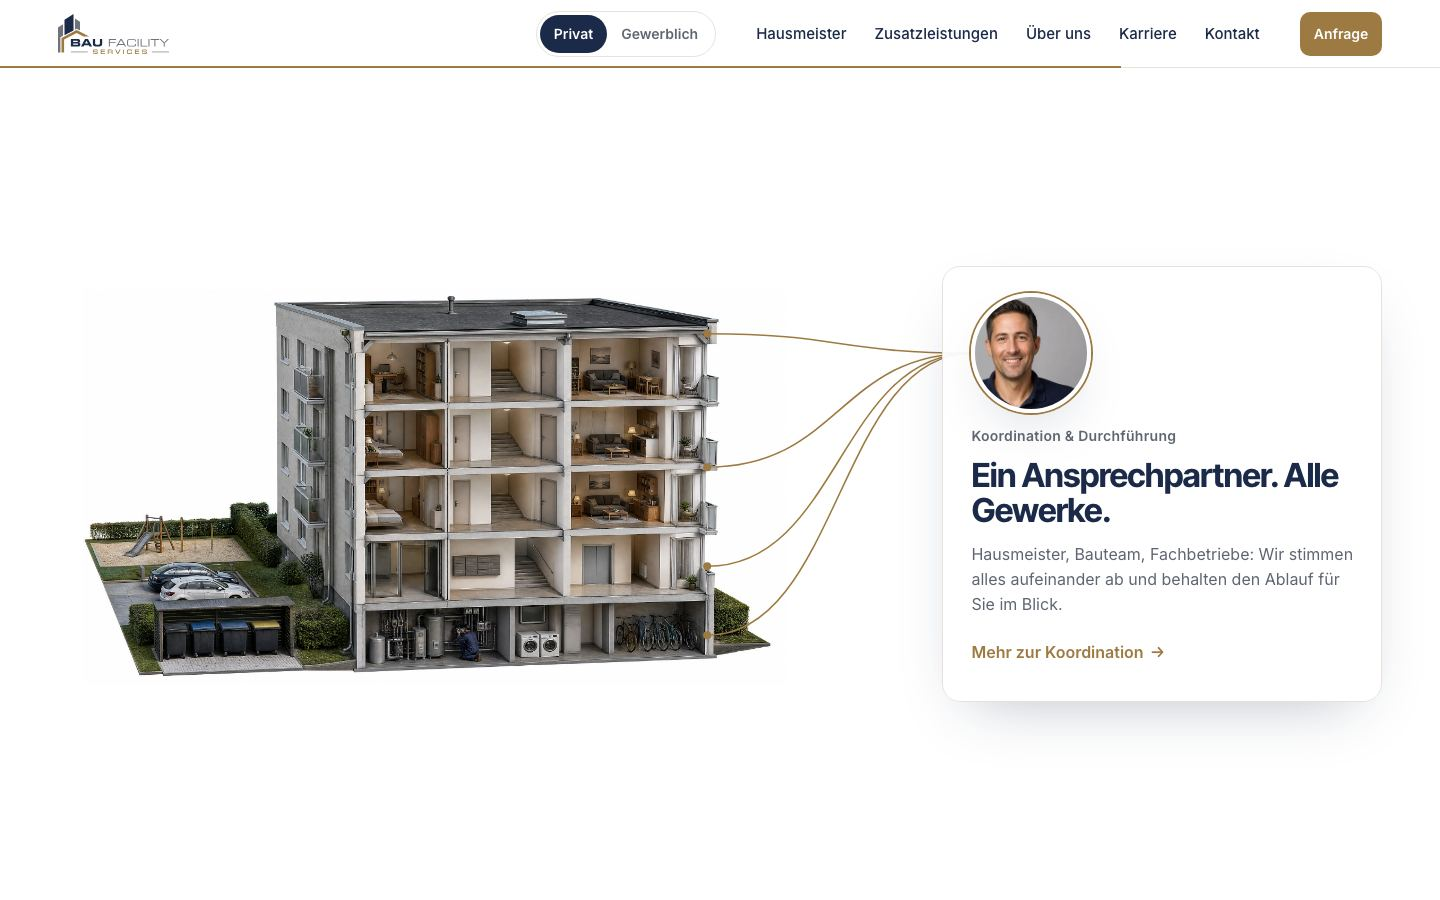
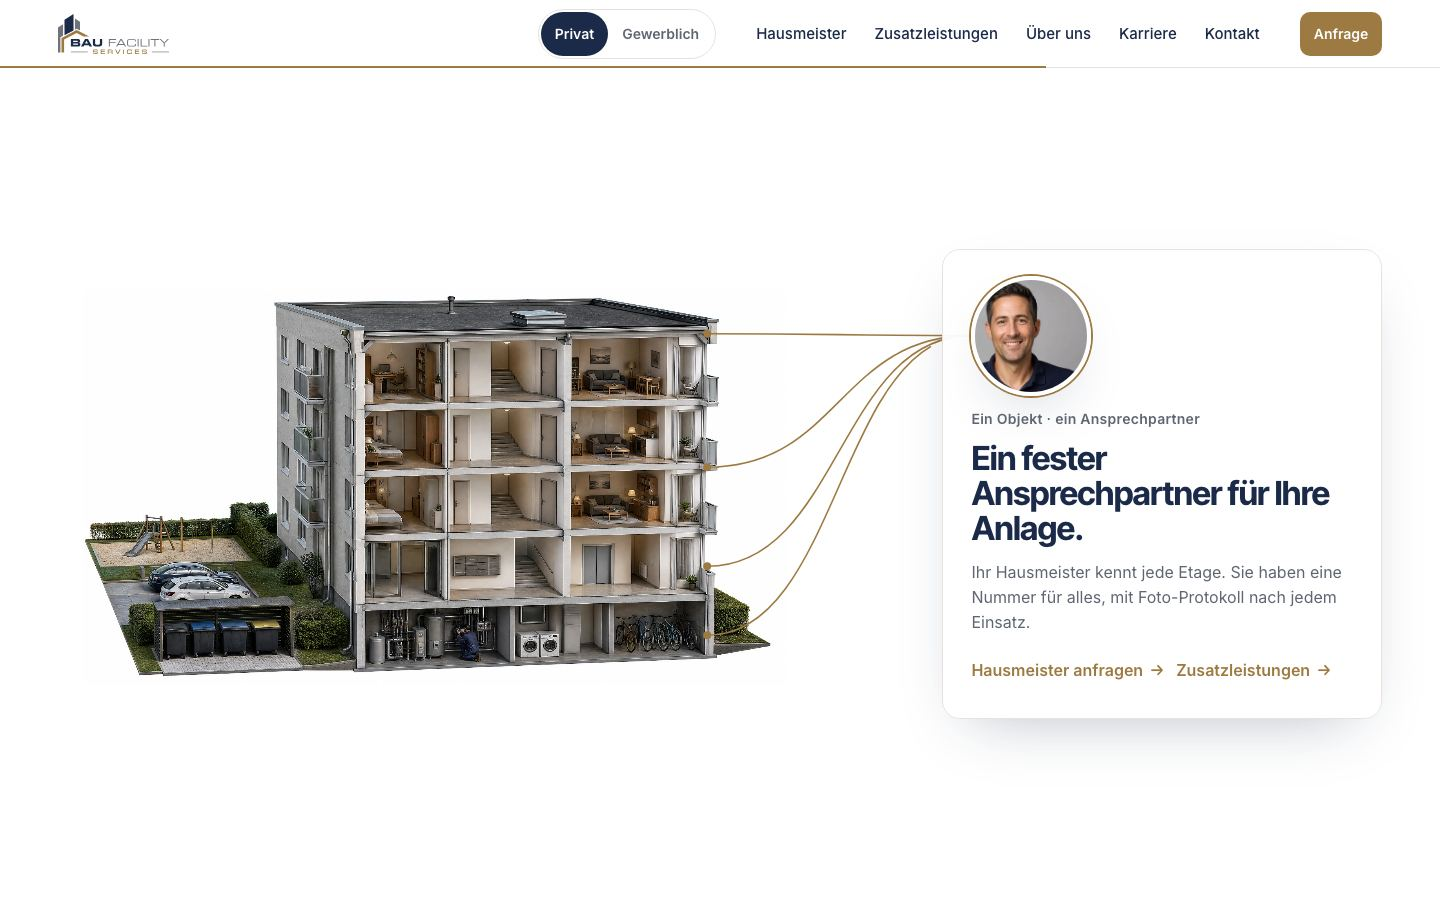
Hausmeister-Karten mit Foto je Station (9 von 10), Handy-Feinschliff

diff --git a/site/assets/manifest.js b/site/assets/manifest.js
@@ -1,1 +1,1 @@
-window.ASSETS={"img": {"a1-ansprechpartner": {"sizes": [1800], "w": 2048, "h": 1136}, "d1-dach": {"sizes": [1800], "w": 2048, "h": 1136}, "e1-eg-vorher": {"sizes": [1800, 2560], "w": 2560, "h": 1440}, "e2-eg-nachher": {"sizes": [1800, 2560], "w": 2560, "h": 1440}, "f1-schnitt": {"sizes": [1800, 2560, 3584], "w": 3584, "h": 2016}, "f2-fassade": {"sizes": [1800, 2560, 3584], "w": 3584, "h": 2016}, "k1-keller": {"sizes": [1800, 2560], "w": 2560, "h": 1440}, "m4-vorort": {"sizes": [1800, 2560], "w": 2560, "h": 1440}, "o1-bad-vorher": {"sizes": [1800], "w": 2048, "h": 1136}, "o2-bad-arbeit": {"sizes": [1800], "w": 2048, "h": 1136}, "o3-bad-ergebnis": {"sizes": [1800], "w": 2048, "h": 1136}, "t1-team": {"sizes": [1800, 2560], "w": 2560, "h": 1440}, "w1-schnitt": {"sizes": [1800, 2560, 3584], "w": 3584, "h": 2016}, "w2-fassade": {"sizes": [1800, 2560, 3584], "w": 3584, "h": 2016}}, "video": {"vorort": {"desktop": "assets/video/vorort-desktop.mp4", "mobile": "assets/video/vorort-mobile.mp4"}}};
+window.ASSETS={"img": {"a1-ansprechpartner": {"sizes": [1800], "w": 2048, "h": 1136}, "d1-dach": {"sizes": [1800], "w": 2048, "h": 1136}, "e1-eg-vorher": {"sizes": [1800, 2560], "w": 2560, "h": 1440}, "e2-eg-nachher": {"sizes": [1800, 2560], "w": 2560, "h": 1440}, "f1-schnitt": {"sizes": [1800, 2560, 3584], "w": 3584, "h": 2016}, "f2-fassade": {"sizes": [1800, 2560, 3584], "w": 3584, "h": 2016}, "hf1": {"sizes": [1800], "w": 2048, "h": 1136}, "hf2": {"sizes": [1800], "w": 2048, "h": 1136}, "hf3": {"sizes": [1800, 2560], "w": 2560, "h": 1440}, "hf4": {"sizes": [1800, 2560], "w": 2560, "h": 1440}, "hk1": {"sizes": [1800], "w": 2048, "h": 1136}, "hk2": {"sizes": [1800], "w": 2048, "h": 1136}, "hk3": {"sizes": [1800], "w": 2048, "h": 1136}, "hk4": {"sizes": [1800, 2560], "w": 2560, "h": 1440}, "hk5": {"sizes": [1800, 2560], "w": 2560, "h": 1440}, "k1-keller": {"sizes": [1800, 2560], "w": 2560, "h": 1440}, "m4-vorort": {"sizes": [1800, 2560], "w": 2560, "h": 1440}, "o1-bad-vorher": {"sizes": [1800], "w": 2048, "h": 1136}, "o2-bad-arbeit": {"sizes": [1800], "w": 2048, "h": 1136}, "o3-bad-ergebnis": {"sizes": [1800], "w": 2048, "h": 1136}, "t1-team": {"sizes": [1800, 2560], "w": 2560, "h": 1440}, "w1-schnitt": {"sizes": [1800, 2560, 3584], "w": 3584, "h": 2016}, "w2-fassade": {"sizes": [1800, 2560, 3584], "w": 3584, "h": 2016}}, "video": {"vorort": {"desktop": "assets/video/vorort-desktop.mp4", "mobile": "assets/video/vorort-mobile.mp4"}}};

diff --git a/abnahme/abnahme.html b/abnahme/abnahme.html
@@ -77,10 +77,11 @@ const CH=[
  ['Koordination & Durchführung','Haus links, Bronze-Linien von jeder Etage zum Ansprechpartner (Symbolbild).','ok'],
  ['Team · Karriere','Kinetik-Typo, 60-Sekunden-Bewerbung, Unterseite Karriere.','ok'],
  ['Werte · Über uns · Kontakt','Vier Werte, Zitat Osman Yilmaz (ohne Foto, da kein echtes vorliegt), Beispiel-Bewertungen, Kontaktformular.','dev'],
- ['Hausmeister-Leistungen · Außenanlagen','NEU (nicht im Storyboard): Kamera fährt in den Garten. Winterdienst mit Protokoll, Gartenpflege, Müllservice, Parkplätze.','dev'],
- ['Zusatzleistung · Bau & Umbau','NEU: erst jetzt EINMAL zurück aufs ganze Haus, Überleitung „Zusätzlich zum Hausmeisterdienst“. Leistung der Bauteams, nicht des Hausmeisters. Rahmen markiert das Erdgeschoss, Vorher/Nachher-Regler.','dev'],
- ['Zusatzleistung · Sanierung & Renovierung','Rahmen springt ins Bad im 1. OG, Vorher · Arbeit · Ergebnis.','dev'],
- ['Zusatzleistung · Planung & Organisation','Rahmen um das ganze Haus, vier Phasen.','dev']
+ ['Hausmeister-Leistungen · Außenanlage','Kamera fährt in den Garten: Winterdienst, Grünpflege, Müllplatz, Spielplatz. Danach einmal zurück aufs ganze Haus, Ansprechpartner mit Linien zu jeder Etage.','ok'],
+ ['Zusatzleistungen-Seite · Planung','NEU (eigene Seite, Wunsch Eugen): Weg „Erkannt → Geplant → Umgesetzt → Koordiniert“, Projektphasen zum Antippen.','dev'],
+ ['Zusatzleistungen-Seite · Bau & Umbau','Vorher/Nachher-Regler, fährt beim Erscheinen einmal auf. Danach Bad-Sanierung: Bild wechselt beim Scrollen durch Vorher · Arbeit · Ergebnis.','dev'],
+ ['Zusatzleistungen-Seite · Koordination','Umschalter „Ohne / Mit Koordination“: 7 Ansprechpartner werden zu 1.','dev'],
+ ['Gewerblich · Firmenanlage','Umschalter auf Gewerblich: Bürogebäude mit Halle, eigene Aufgaben je Etage, Fotos in den Karten.','dev']
 ];
 const list=document.getElementById('list');
 CH.forEach(([t,n,s],i)=>{const k=i+1;const sec=document.createElement('section');sec.className='ch';

diff --git a/site/styles.css b/site/styles.css
@@ -321,3 +321,4 @@ details p{padding:0 0 14px;color:var(--muted)}
 }
 @media (max-width:700px){.zpath{grid-template-columns:1fr}.zcount b{font-size:48px}.zsteps__media{aspect-ratio:16/9}}
 @media (max-height:500px) and (orientation:landscape){.zsteps{grid-template-columns:1fr 1fr}.zsteps__sticky{top:calc(var(--head) + 8px)}.zstep{min-height:70vh}}
+@media (max-width:700px) and (max-height:780px){.sc--hm .sc__media{aspect-ratio:16/5}.sc{gap:7px;padding:14px 16px}.ticks{gap:4px}.ticks li{line-height:1.3}.sc h2{font-size:22px}}

diff --git a/tools/abnahme.py b/tools/abnahme.py
@@ -8,7 +8,7 @@ os.makedirs(OUT, exist_ok=True)
 # (Kapitel, Art, Wert): pin = Fortschritt der Haus-Fahrt, sel = Abschnitt
 CH = [('start', 'sel', '#start'), ('haus', 'pin', .08), ('keller', 'at', 'keller'), ('eg', 'at', 'eg'),
       ('og', 'at', 'og'), ('dach', 'at', 'dach'), ('koord', 'at', 'koordination'), ('team', 'sel', '#team'), ('werte', 'sel', '#werte'),
-      ('aussen', 'at', 'aussen'), ('umbau', 'at', 'umbau'), ('sanierung', 'at', 'sanierung'), ('planung', 'at', 'planung')]
+      ('aussen', 'at', 'aussen'), ('z-planung', 'zpage', '#planung'), ('z-umbau', 'zpage', '#umbau'), ('z-koord', 'zpage', '#koordination'), ('firma', 'firma', 'eg')]
 sb = Image.open(SB).convert('RGB'); W, H = sb.size; pw, ph = W / 3, H / 3
 for i in range(9):
     r, c = divmod(i, 3)
@@ -17,9 +17,16 @@ async def main():
     async with async_playwright() as p:
         b = await p.chromium.launch()
         for tag, w, h, mob in (('laptop', 1440, 900, False), ('handy', 390, 844, True)):
-            pg = await b.new_page(viewport={'width': w, 'height': h}, device_scale_factor=2 if mob else 1, is_mobile=mob, has_touch=mob, reduced_motion='reduce')
+            pg = await b.new_page(viewport={'width': w, 'height': h}, device_scale_factor=2 if mob else 1, is_mobile=mob, has_touch=mob)
             await pg.goto(URL, wait_until='networkidle'); await pg.wait_for_timeout(2500)
             for i, (name, kind, val) in enumerate(CH):
+                if kind == 'zpage':
+                    if 'zusatz' not in pg.url: await pg.goto(URL + 'zusatzleistungen.html', wait_until='networkidle'); await pg.wait_for_timeout(1500)
+                    await pg.evaluate(f"document.querySelector('{val}').scrollIntoView()"); await pg.wait_for_timeout(2600)
+                    await pg.screenshot(path=f'{OUT}{i+1}-{tag}.jpg', type='jpeg', quality=78); continue
+                if kind == 'firma':
+                    await pg.goto(URL + '?anlage=firma', wait_until='networkidle'); await pg.wait_for_timeout(2000)
+                    kind = 'at'
                 if kind == 'at':
                     y = await pg.evaluate(f"(()=>{{const t=ScrollTrigger.getAll().find(t=>t.pin);return t.start+(t.end-t.start)*window.__at['{val}']}})()")
                 elif kind == 'pin':

diff --git a/tools/dl_sjinn.py b/tools/dl_sjinn.py
@@ -1,0 +1,12 @@
+#!/usr/bin/env python3
+"""Lädt die per Zwischenablage übergebenen sjinn-Bild-URLs (JSON nach 'HWURLS') nach assets-roh/<id klein>.png, nur neue."""
+import json, subprocess, os
+t = subprocess.run(['pbpaste'], capture_output=True, text=True).stdout
+assert t.startswith('HWURLS'), 'Zwischenablage passt nicht: ' + t[:20]
+for k, u in json.loads(t[6:]).items():
+    assert u.startswith('https://edit.comfyonline.app/'), u[:40]
+    out = f'assets-roh/{k.lower()}.png'
+    if os.path.exists(out): continue
+    subprocess.run(['curl', '-sL', '-o', out, u], check=True)
+    wh = subprocess.run(['sips', '-g', 'pixelWidth', '-g', 'pixelHeight', out], capture_output=True, text=True).stdout.split()
+    print(k, wh[-3], wh[-1])
